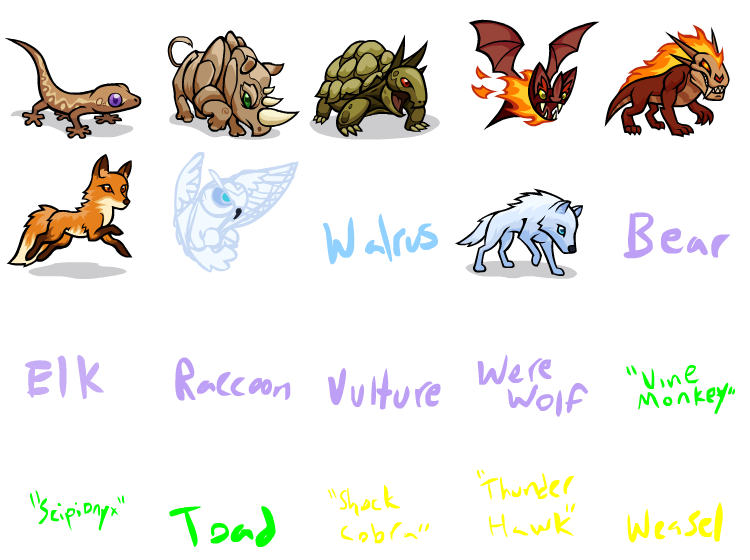
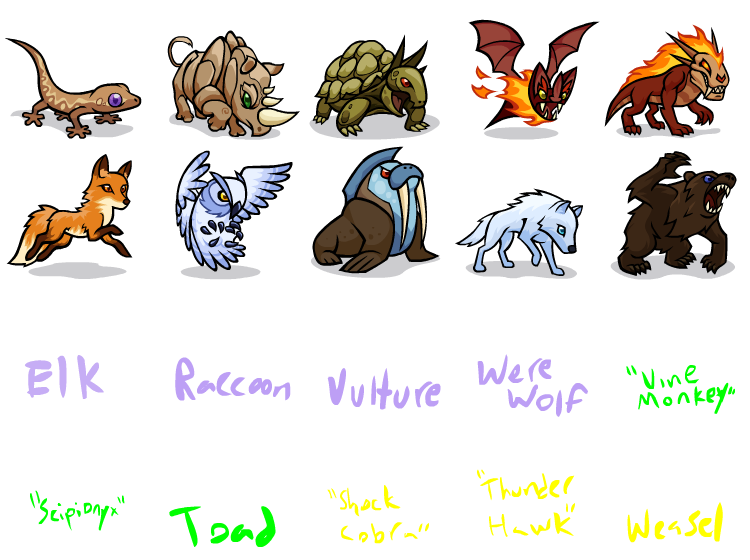
One card of each

diff --git a/PhaserMVC/static/js/main.js b/PhaserMVC/static/js/main.js
@@ -27,7 +27,7 @@ var mainState = {
     playerHand: [], //array of cards
     turnText: "", //status area in the center of the board
     player: 0, //1 or 2
-    score: [0,0],
+    score: [0, 0],
     playerOneScore: {}, //text for the score
     playerTwoScore: {},
     gameOver: false,
@@ -35,12 +35,12 @@ var mainState = {
     preload: function () {
         //Load Art Assets
         game.load.image('gameBoard', 'static/img/GameBoard.png');
-        game.load.image('handBoard', 'static/img/HandBoard.png');        
+        game.load.image('handBoard', 'static/img/HandBoard.png');
         game.load.image('treasure', 'static/img/Treasure.png');
         game.load.spritesheet('charSheet', 'static/img/CharacterSheet.png', 150, 140);
         game.load.spritesheet('numberSheet', 'static/img/numbers.png', 18, 22, 33, 1, 2);
         game.load.spritesheet('cardFrameSheet', 'static/img/FrameSheet.png', 150, 140, 6);
-        game.load.spritesheet('elementalBGs', 'static/img/ElementalBGs.png', 150, 140, 6);        
+        game.load.spritesheet('elementalBGs', 'static/img/ElementalBGs.png', 150, 140, 6);
     },
 
     create: function () {
@@ -49,10 +49,10 @@ var mainState = {
         //Add boards
         this.buildGameBoard();
         this.buildHandBoard();
-        
+
         // Display the scores
         this.playerOneScore = game.add.text(10, 5, this.score[0], { font: Math.floor(60 * globalScale) + 'px Arial', fill: 'blue' });
-        this.playerTwoScore = game.add.text(canvWidth-60, 5, this.score[1],{ font: Math.floor(60 * globalScale) + 'px Arial', fill: 'red' });
+        this.playerTwoScore = game.add.text(canvWidth - 60, 5, this.score[1], { font: Math.floor(60 * globalScale) + 'px Arial', fill: 'red' });
 
         //turntext
         this.turnText = game.add.text(game.world.centerX, 0, '',
@@ -65,7 +65,7 @@ var mainState = {
     },
 
     update: function () {
-        
+
     },
 
     buildGameBoard: function () {
@@ -124,9 +124,9 @@ var mainState = {
             { x: Math.round(this.gameBoard.x + 150 * globalScale), y: Math.round(this.gameBoard.y + 204 * globalScale) },
         ];
 
-                
+
         this.board = new Board();
-        
+
         this.emptyGameBoardHexes.createMultiple(19, 'cardFrameSheet', 0, true);
         for (var i = 0; i < this.emptyGameBoardHexes.length; i++) {
             this.emptyGameBoardHexes.getAt(i).x = gameBoardPositions[i].x;
@@ -164,24 +164,16 @@ var mainState = {
             { x: Math.round(this.handBoard.x + 300 * globalScale), y: Math.round(this.handBoard.y + 51 * globalScale) },
         ];
 
-        //create 9 cards
-
-        function RandomCardType(max) {
-            var randNum = Math.floor(Math.random() * max);
-            var i = 0;
-            for (var prop in CardType){
-                if (i == randNum) return CardType[prop];
-                i++;
-            }
-        }
-        //random cards
-        for (var i = 0; i < 9; i++) {
+        //create set of cards
+        var i = 0;
+        for (var prop in CardType) {
+            if (i == 9) break;
             var point = { x: handBoardPositions[i].x, y: handBoardPositions[i].y };
-            var card = new Card(point, RandomCardType(7), 0, 5, globalScale);
-            
+            var card = new Card(point, CardType[prop], 0, 3, globalScale);
             mainState.playerHand.push(card);
-        }        
-       
+            i++;
+        }
+
     },
     toggleTurn: function (myTurn) {
         if (!this.gameOver) {

diff --git a/PhaserMVC/static/js/GameObjects.js b/PhaserMVC/static/js/GameObjects.js
@@ -53,6 +53,8 @@ CardType = {
     TorchBat: { sprite: { x: 0, y: -20, key: 'charSheet', frame: 3, background: 1 }, values: [1, 0, 4] },
     Therapsid: { sprite: { x: 0, y: -32, key: 'charSheet', frame: 4, background: 1 }, values: [2, 2, 6] },
     EmberFox: { sprite: { x: 0, y: -32, key: 'charSheet', frame: 5, background: 1 }, values: [4, 2, 1] },
+    SnowOwl: { sprite: { x: 0, y: -32, key: 'charSheet', frame: 6, background: 2 }, values: [2, 4, 1] },
+    Walrus: { sprite: { x: 0, y: -32, key: 'charSheet', frame: 7, background: 2 }, values: [3, 4, 4] },
     ArcticWolf: { sprite: { x: 0, y: -32, key: 'charSheet', frame: 8, background: 2 }, values: [2, 6, 1] },
 
     Treasure: { sprite: { x: 0, y: -32, key: 'treasure' }, values: [2, 2, 2] },
